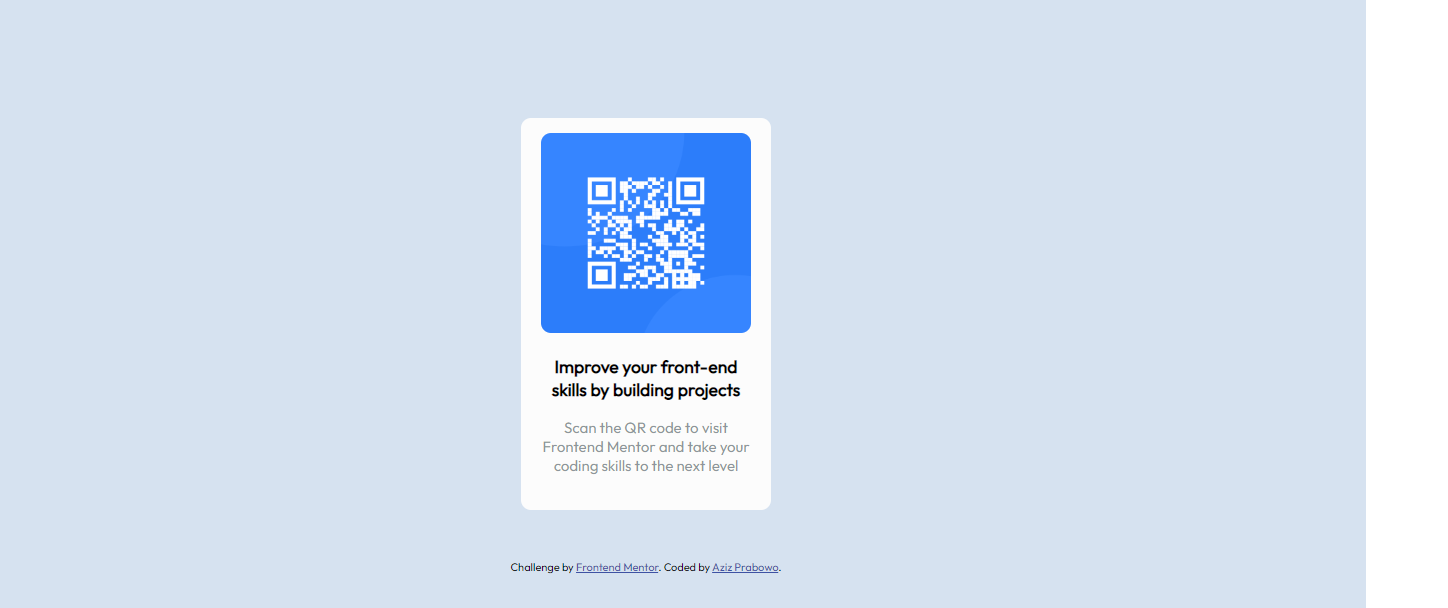
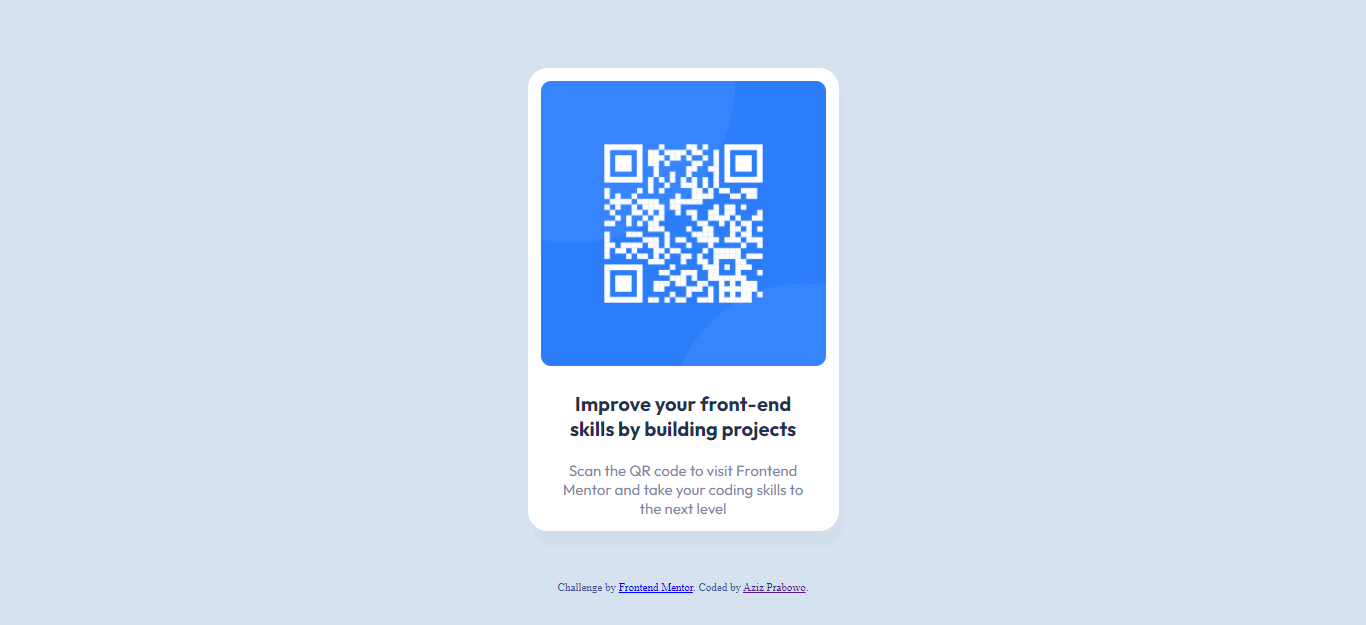
added <main>, div.card class to HTML & restuctured the CSS code

Changed region(s): [[0.3382, 0.0938, 0.6149, 0.875], [0.9224, 0.0, 1.0, 1.0], [0.3382, 0.9062, 0.5842, 0.9688]]

diff --git a/index.html b/index.html
@@ -7,35 +7,30 @@
   <!-- displays site properly based on user's device -->
 
   <link rel="icon" type="image/png" sizes="32x32" href="./images/favicon-32x32.png">
-  <link href="https://fonts.googleapis.com/css2?family=Outfit&display=swap" rel="stylesheet">
+  <link href="https://fonts.googleapis.com/css2?family=Outfit:wght@400;700&display=swap" rel="stylesheet">
   <link rel="stylesheet" href="style.css">
-
   <title>Frontend Mentor | QR code component</title>
-
 </head>
 
 <body>
-  <div class="container">
-    <div class="qr-code">
-      <div class="image">
-        <img src="images/image-qr-code.png" alt="QR Code">
-      </div>
-      <div class="caption">
-        <h3>
-          Improve your front-end skills by building projects
-        </h3>
-        <p>
-          Scan the QR code to visit Frontend Mentor and take your coding skills to the next level
-        </p>
+  <main>
+    <div class="container">
+      <div class="card">
+        <img class="card-img" src="images/image-qr-code.png" alt="QR-code">
+        <div class="card-title">Improve your front-end skills by building projects</div>
+        <div class="card-detail">Scan the QR code to visit Frontend Mentor and take your coding skills to the next level
+        </div>
       </div>
     </div>
-  </div>
+  </main>
+
   <footer>
     <div class="attribution">
       Challenge by <a href="https://www.frontendmentor.io?ref=challenge" target="_blank">Frontend Mentor</a>.
-      Coded by <a href="https://github.com/azizp128">Aziz Prabowo</a>.
+      Coded by <a href="https://github.com/azizp128?tab=repositories">Aziz Prabowo</a>.
     </div>
   </footer>
+
 </body>
 
 </html>

diff --git a/style.css b/style.css
@@ -1,58 +1,50 @@
 body {
+  margin: 0;
   background-color: hsl(212, 45%, 89%);
-  font-size: 15px;
-  font-family: "Outfit";
-  width: 1440px;
 }
 
 .container {
   display: flex;
   justify-content: center;
   align-items: center;
-  flex-direction: column;
-  min-width: 300px;
+  margin-top: 5%;
 }
 
-.container .qr-code {
-  width: 250px;
+.card {
+  max-width: 285px;
+  background-color: white;
+  border-radius: 20px;
+  box-shadow: 5px 15px hsl(217, 8%, 61%, 0.05);
+  padding: 13px;
+}
+
+.card-img {
+  max-width: 100%;
   border-radius: 10px;
-  background-color: hsl(0, 0%, 99%);
-  box-shadow: 50px;
-  margin-top: 110px;
-  display: flex;
-  flex-wrap: wrap;
-  justify-content: center;
-  align-items: center;
+  display: block;
 }
 
-img {
-  width: 210px;
-  height: 200px;
-  margin-top: 15px;
-  border-radius: 10px;
-}
-
-.caption {
-  text-align: center;
-  padding-right: 15px;
-  padding-left: 15px;
-  padding-bottom: 20px;
-}
-
-.caption h3 {
+.card-title {
+  font-family: "Outfit", sans-serif;
   font-weight: 700;
+  font-size: 20px;
+  color: hsl(218, 44%, 22%);
+  text-align: center;
+  padding: 25px 20px 20px 20px;
 }
 
-.caption p {
-  color: rgba(117, 126, 134, 0.815);
+.card-detail {
+  font-family: "Outfit", sans-serif;
+  font-weight: 400;
+  font-size: 15px;
+  color: hsl(220, 15%, 55%);
+  text-align: center;
+  padding: 0 20px;
 }
 
 .attribution {
   font-size: 11px;
   text-align: center;
-  margin-top: 50px;
-}
-
-.attribution a {
   color: hsl(228, 45%, 44%);
+  padding-top: 50px;
 }
